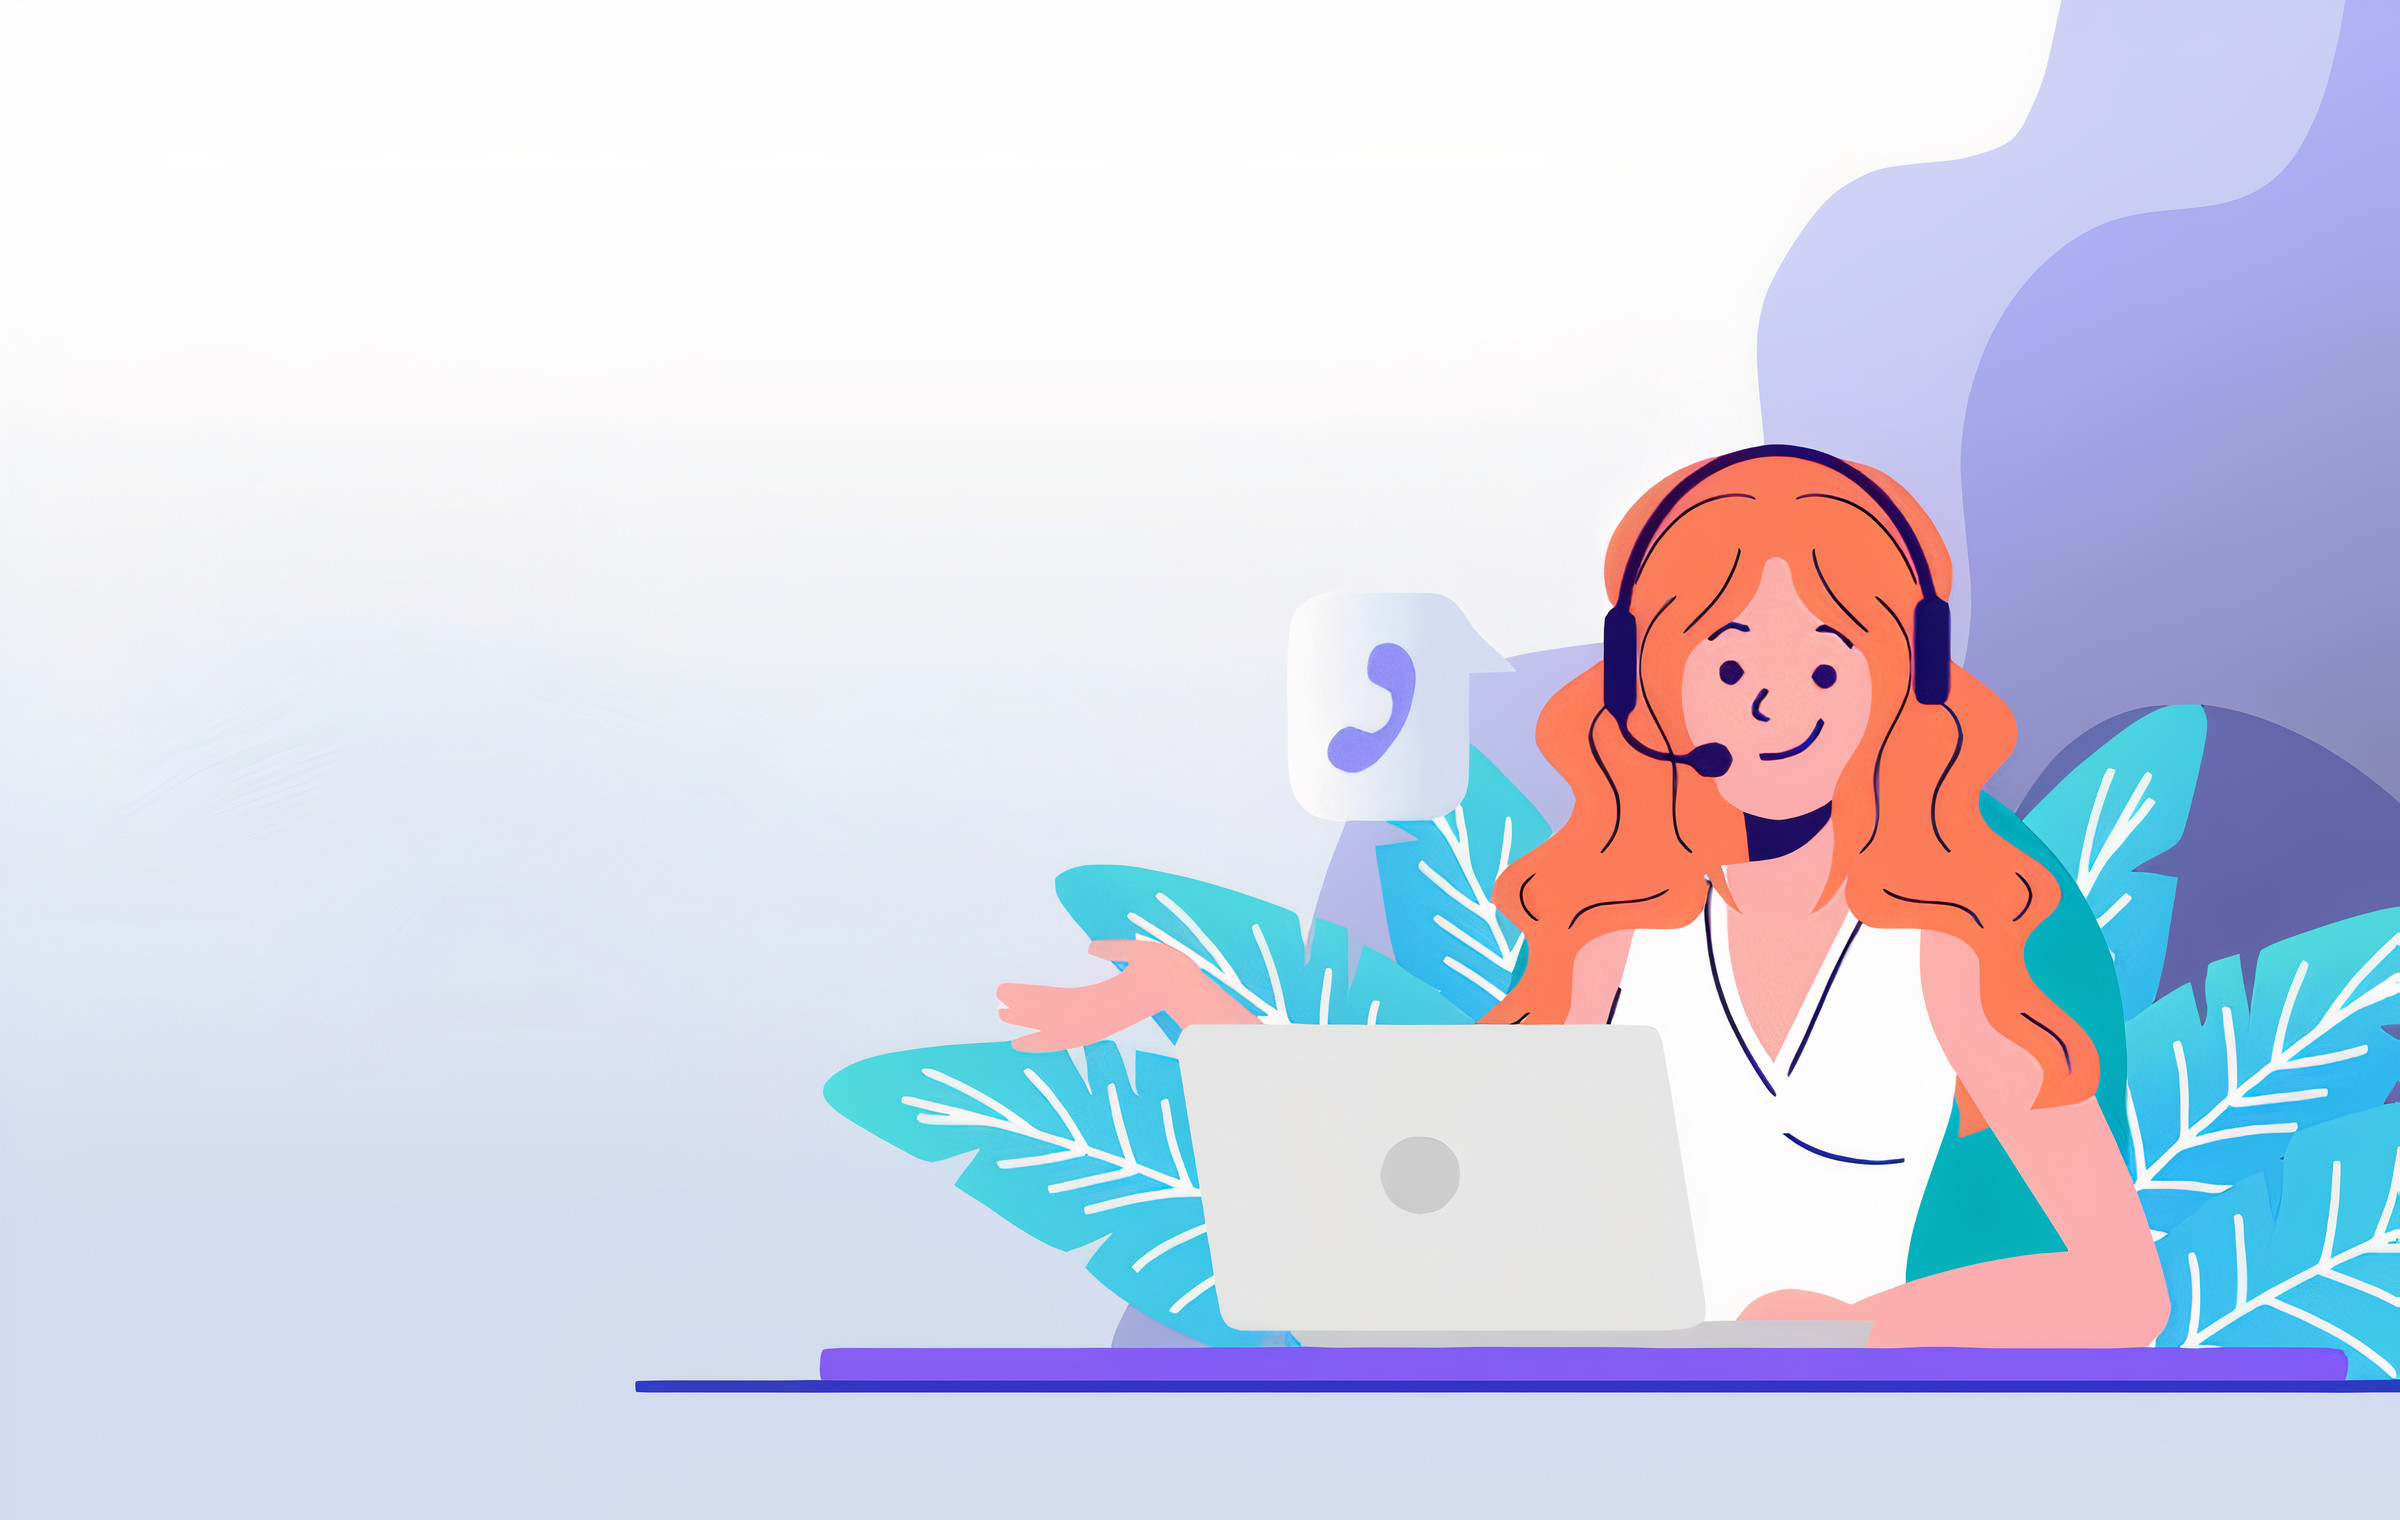
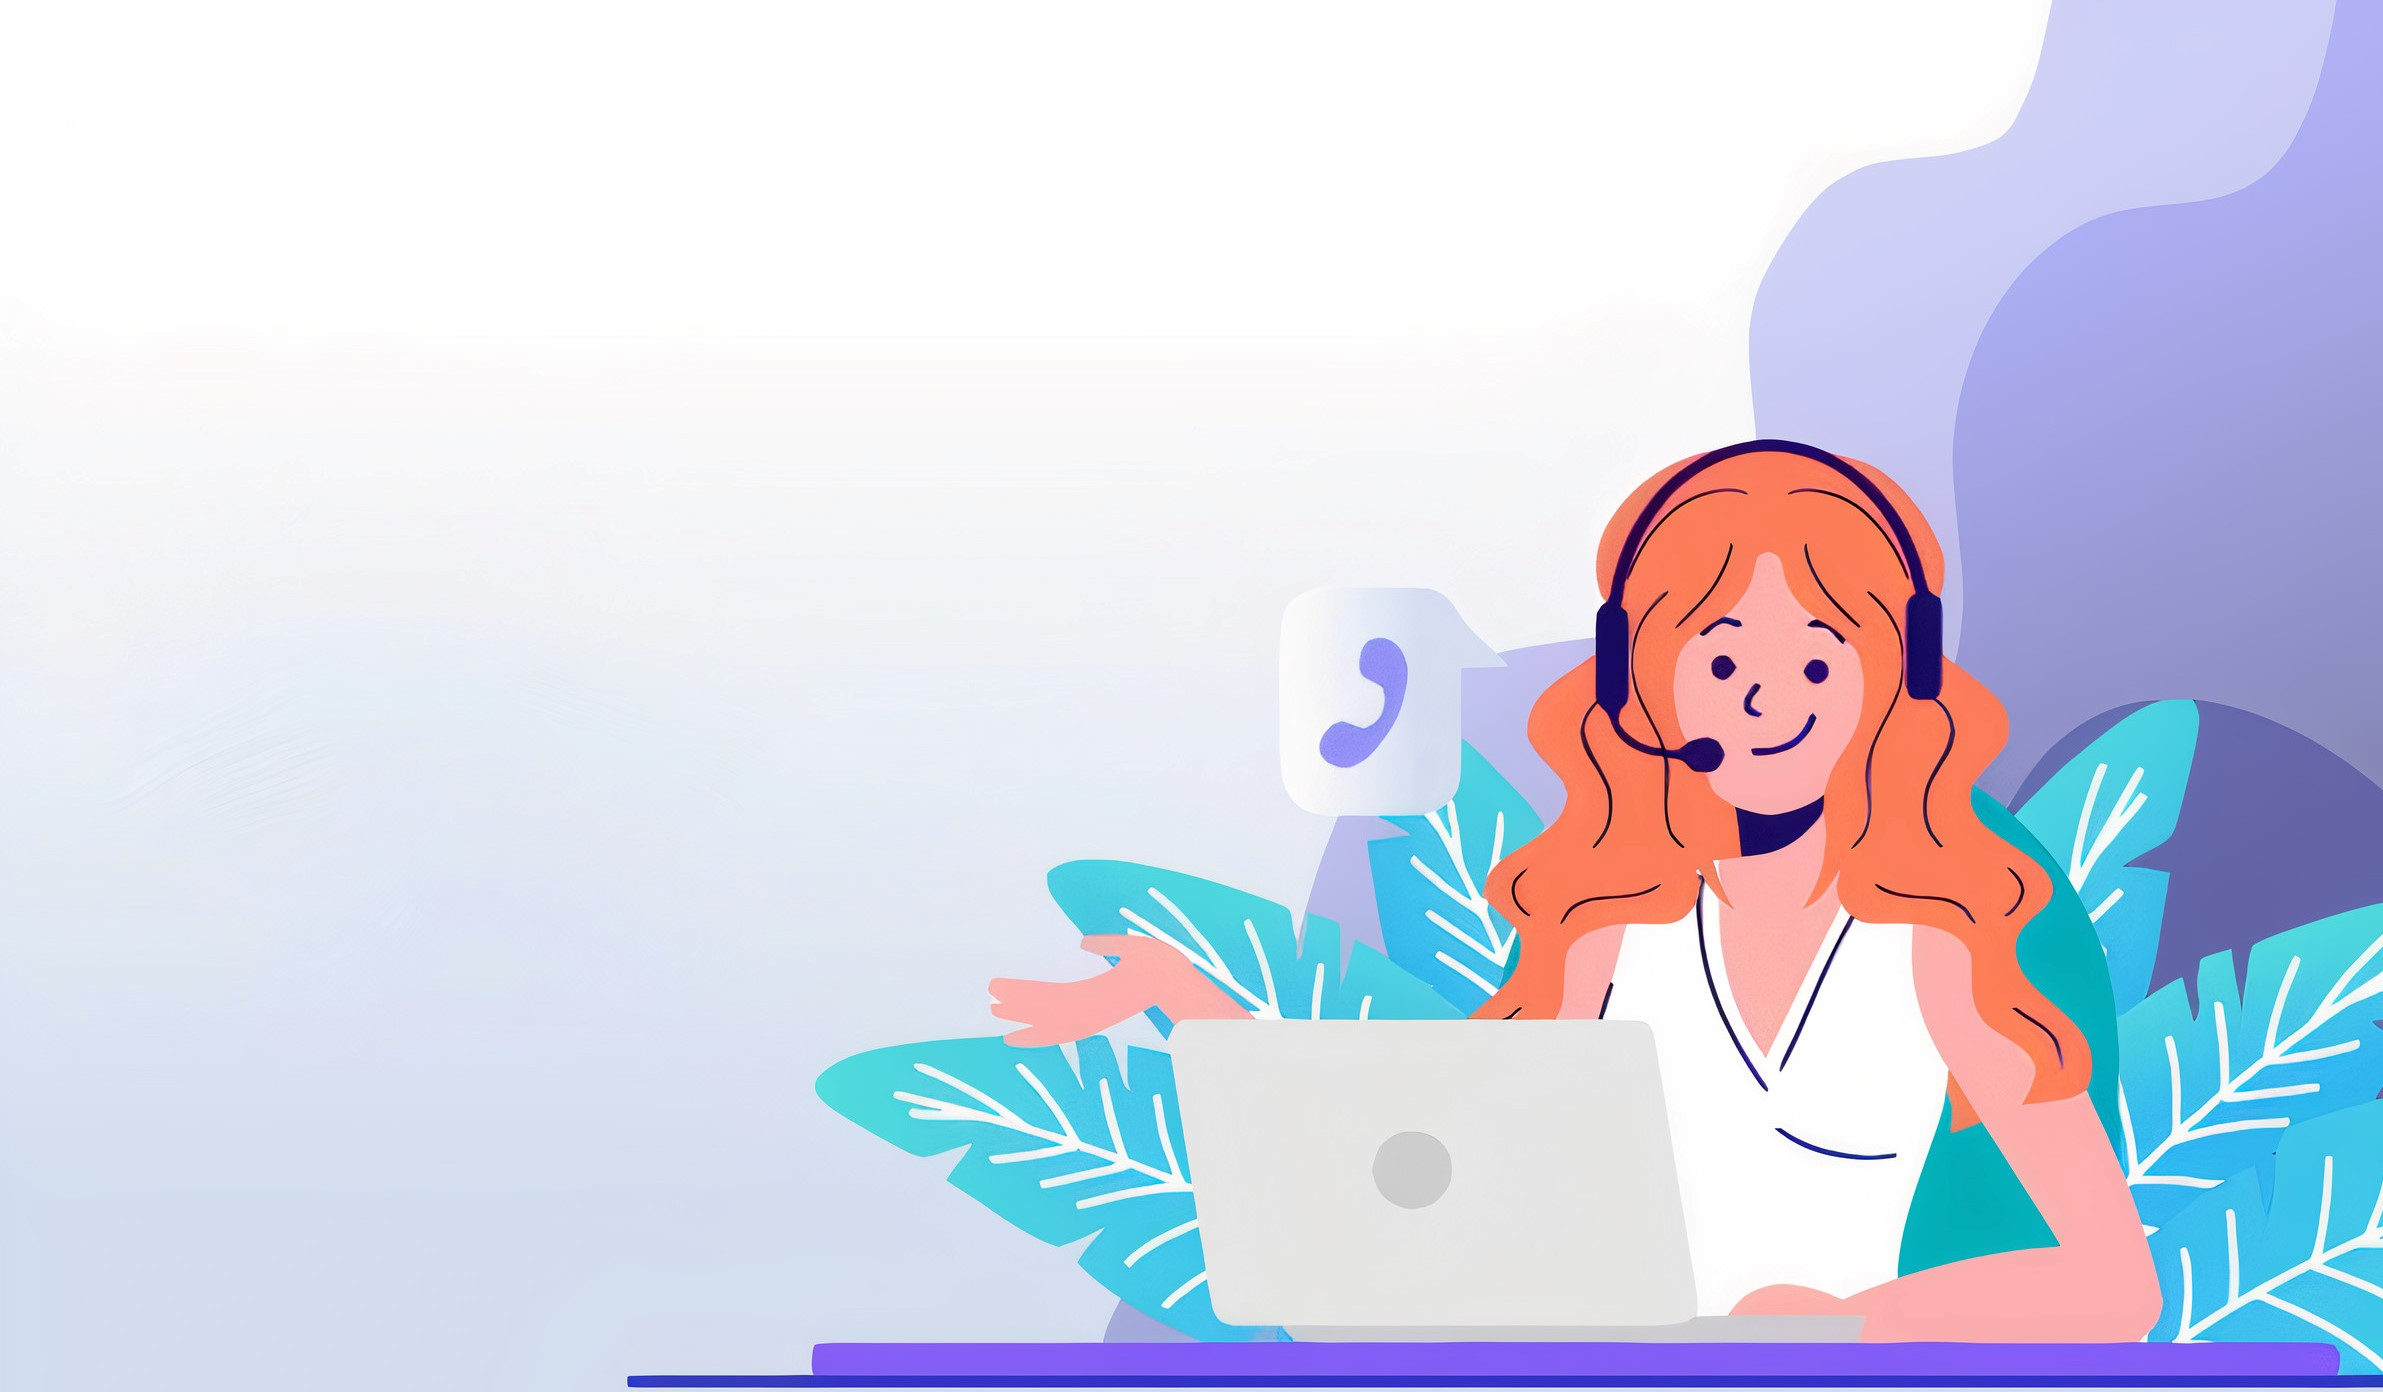
home page css change

diff --git a/resource/css/new_home.css b/resource/css/new_home.css
@@ -390,7 +390,7 @@ p{
      height: 100vh;
      width: 100%;
      top: 0px;
-     filter: brightness(0.2);
+     filter: brightness(0.4);
      background-attachment: fixed;
      overflow-x: hidden;
 }
@@ -451,8 +451,9 @@ span.fade{
     position: absolute;
     /* z-index: -1; */
     /* display: flex; */
-    /* justify-content: flex-start; */
-    /* bottom: -40px; */
+    justify-content: flex-end;
+    bottom: 0px;
+    right: 0;
 }
 /* section2 header */
 .section2{

diff --git a/views/paymentFood_history.php b/views/paymentFood_history.php
@@ -47,13 +47,13 @@
     <div class="container">
         <div class="content">
           <div class="payment-slide">
-              <ul>
-                   <li  onclick="window.location='../index.php'"><i style="color: blueviolet;" class="fas fa-home"></i> Home page</li>
-                  <li onclick="window.location='paymentFood_pending.php'"><i style="color: #F7CB73;" class="fas fa-hourglass-half"></i> Pending Orders</li>
-                  <li onclick="window.location='paymentFood_accept.php'"><i style="color: green;" class="fas fa-clipboard-check"></i> Accepted Orders</li>
-                  <li onclick="window.location='paymentFood_receving.php'"><i style="color: blue;" class="fas fa-truck"></i> Receiving Order</li>
+          <ul>
+                   <li  onclick="window.location='../index.php'"><i class="fas fa-external-link-alt"></i> Home page</li>
+                  <li onclick="window.location='paymentFood_pending.php'"><i  class="fas fa-hourglass-half"></i> Pending Orders</li>
+                  <li onclick="window.location='paymentFood_accept.php'"><i  class="fas fa-clipboard-check"></i> Accepted Orders</li>
+                  <li onclick="window.location='paymentFood_receving.php'"><i  class="fas fa-truck"></i> Receiving Order</li>
                   <li onclick="window.location='paymentFood_history.php'"><i class="fas fa-history"></i> Order History</li>
-                  <li onclick="window.location='foodposts.php'"><i style="color: red;" class="fas fa-plus"></i> New Order</li>
+                  <li onclick="window.location='foodposts.php'"><i  class="fas fa-plus"></i> New Order</li>
               </ul>
           </div>          
        

diff --git a/views/paymentFood_accept.php b/views/paymentFood_accept.php
@@ -48,12 +48,12 @@
         <div class="content">
           <div class="payment-slide">
           <ul>
-                   <li  onclick="window.location='../index.php'"><i style="color: blueviolet;" class="fas fa-home"></i> Home page</li>
-                  <li onclick="window.location='paymentFood_pending.php'"><i style="color: #F7CB73;" class="fas fa-hourglass-half"></i> Pending Orders</li>
-                  <li onclick="window.location='paymentFood_accept.php'"><i style="color: green;" class="fas fa-clipboard-check"></i> Accepted Orders</li>
-                  <li onclick="window.location='paymentFood_receving.php'"><i style="color: blue;" class="fas fa-truck"></i> Receiving Order</li>
+                   <li  onclick="window.location='../index.php'"><i class="fas fa-external-link-alt"></i> Home page</li>
+                  <li onclick="window.location='paymentFood_pending.php'"><i  class="fas fa-hourglass-half"></i> Pending Orders</li>
+                  <li onclick="window.location='paymentFood_accept.php'"><i  class="fas fa-clipboard-check"></i> Accepted Orders</li>
+                  <li onclick="window.location='paymentFood_receving.php'"><i  class="fas fa-truck"></i> Receiving Order</li>
                   <li onclick="window.location='paymentFood_history.php'"><i class="fas fa-history"></i> Order History</li>
-                  <li onclick="window.location='foodposts.php'"><i style="color: red;" class="fas fa-plus"></i> New Order</li>
+                  <li onclick="window.location='foodposts.php'"><i  class="fas fa-plus"></i> New Order</li>
               </ul>
           </div>          
         <div class="accept">

diff --git a/views/paymentFood_pending.php b/views/paymentFood_pending.php
@@ -48,12 +48,12 @@
         <div class="content">
           <div class="payment-slide">
           <ul>
-                   <li  onclick="window.location='../index.php'"><i style="color: blueviolet;" class="fas fa-home"></i> Home page</li>
-                  <li onclick="window.location='paymentFood_pending.php'"><i style="color: #F7CB73;" class="fas fa-hourglass-half"></i> Pending Orders</li>
-                  <li onclick="window.location='paymentFood_accept.php'"><i style="color: green;" class="fas fa-clipboard-check"></i> Accepted Orders</li>
-                  <li onclick="window.location='paymentFood_receving.php'"><i style="color: blue;" class="fas fa-truck"></i> Receiving Order</li>
+                   <li  onclick="window.location='../index.php'"><i class="fas fa-external-link-alt"></i> Home page</li>
+                  <li onclick="window.location='paymentFood_pending.php'"><i  class="fas fa-hourglass-half"></i> Pending Orders</li>
+                  <li onclick="window.location='paymentFood_accept.php'"><i  class="fas fa-clipboard-check"></i> Accepted Orders</li>
+                  <li onclick="window.location='paymentFood_receving.php'"><i  class="fas fa-truck"></i> Receiving Order</li>
                   <li onclick="window.location='paymentFood_history.php'"><i class="fas fa-history"></i> Order History</li>
-                  <li onclick="window.location='foodposts.php'"><i style="color: red;" class="fas fa-plus"></i> New Order</li>
+                  <li onclick="window.location='foodposts.php'"><i  class="fas fa-plus"></i> New Order</li>
               </ul>
           </div>          
        

diff --git a/views/paymentFood_receving.php b/views/paymentFood_receving.php
@@ -48,12 +48,12 @@
         <div class="content">
           <div class="payment-slide">
           <ul>
-                   <li  onclick="window.location='../index.php'"><i style="color: blueviolet;" class="fas fa-home"></i> Home page</li>
-                  <li onclick="window.location='paymentFood_pending.php'"><i style="color: #F7CB73;" class="fas fa-hourglass-half"></i> Pending Orders</li>
-                  <li onclick="window.location='paymentFood_accept.php'"><i style="color: green;" class="fas fa-clipboard-check"></i> Accepted Orders</li>
-                  <li onclick="window.location='paymentFood_receving.php'"><i style="color: blue;" class="fas fa-truck"></i> Receiving Order</li>
+                   <li  onclick="window.location='../index.php'"><i class="fas fa-external-link-alt"></i> Home page</li>
+                  <li onclick="window.location='paymentFood_pending.php'"><i  class="fas fa-hourglass-half"></i> Pending Orders</li>
+                  <li onclick="window.location='paymentFood_accept.php'"><i  class="fas fa-clipboard-check"></i> Accepted Orders</li>
+                  <li onclick="window.location='paymentFood_receving.php'"><i  class="fas fa-truck"></i> Receiving Order</li>
                   <li onclick="window.location='paymentFood_history.php'"><i class="fas fa-history"></i> Order History</li>
-                  <li onclick="window.location='foodposts.php'"><i style="color: red;" class="fas fa-plus"></i> New Order</li>
+                  <li onclick="window.location='foodposts.php'"><i  class="fas fa-plus"></i> New Order</li>
               </ul>
           </div>          
        
